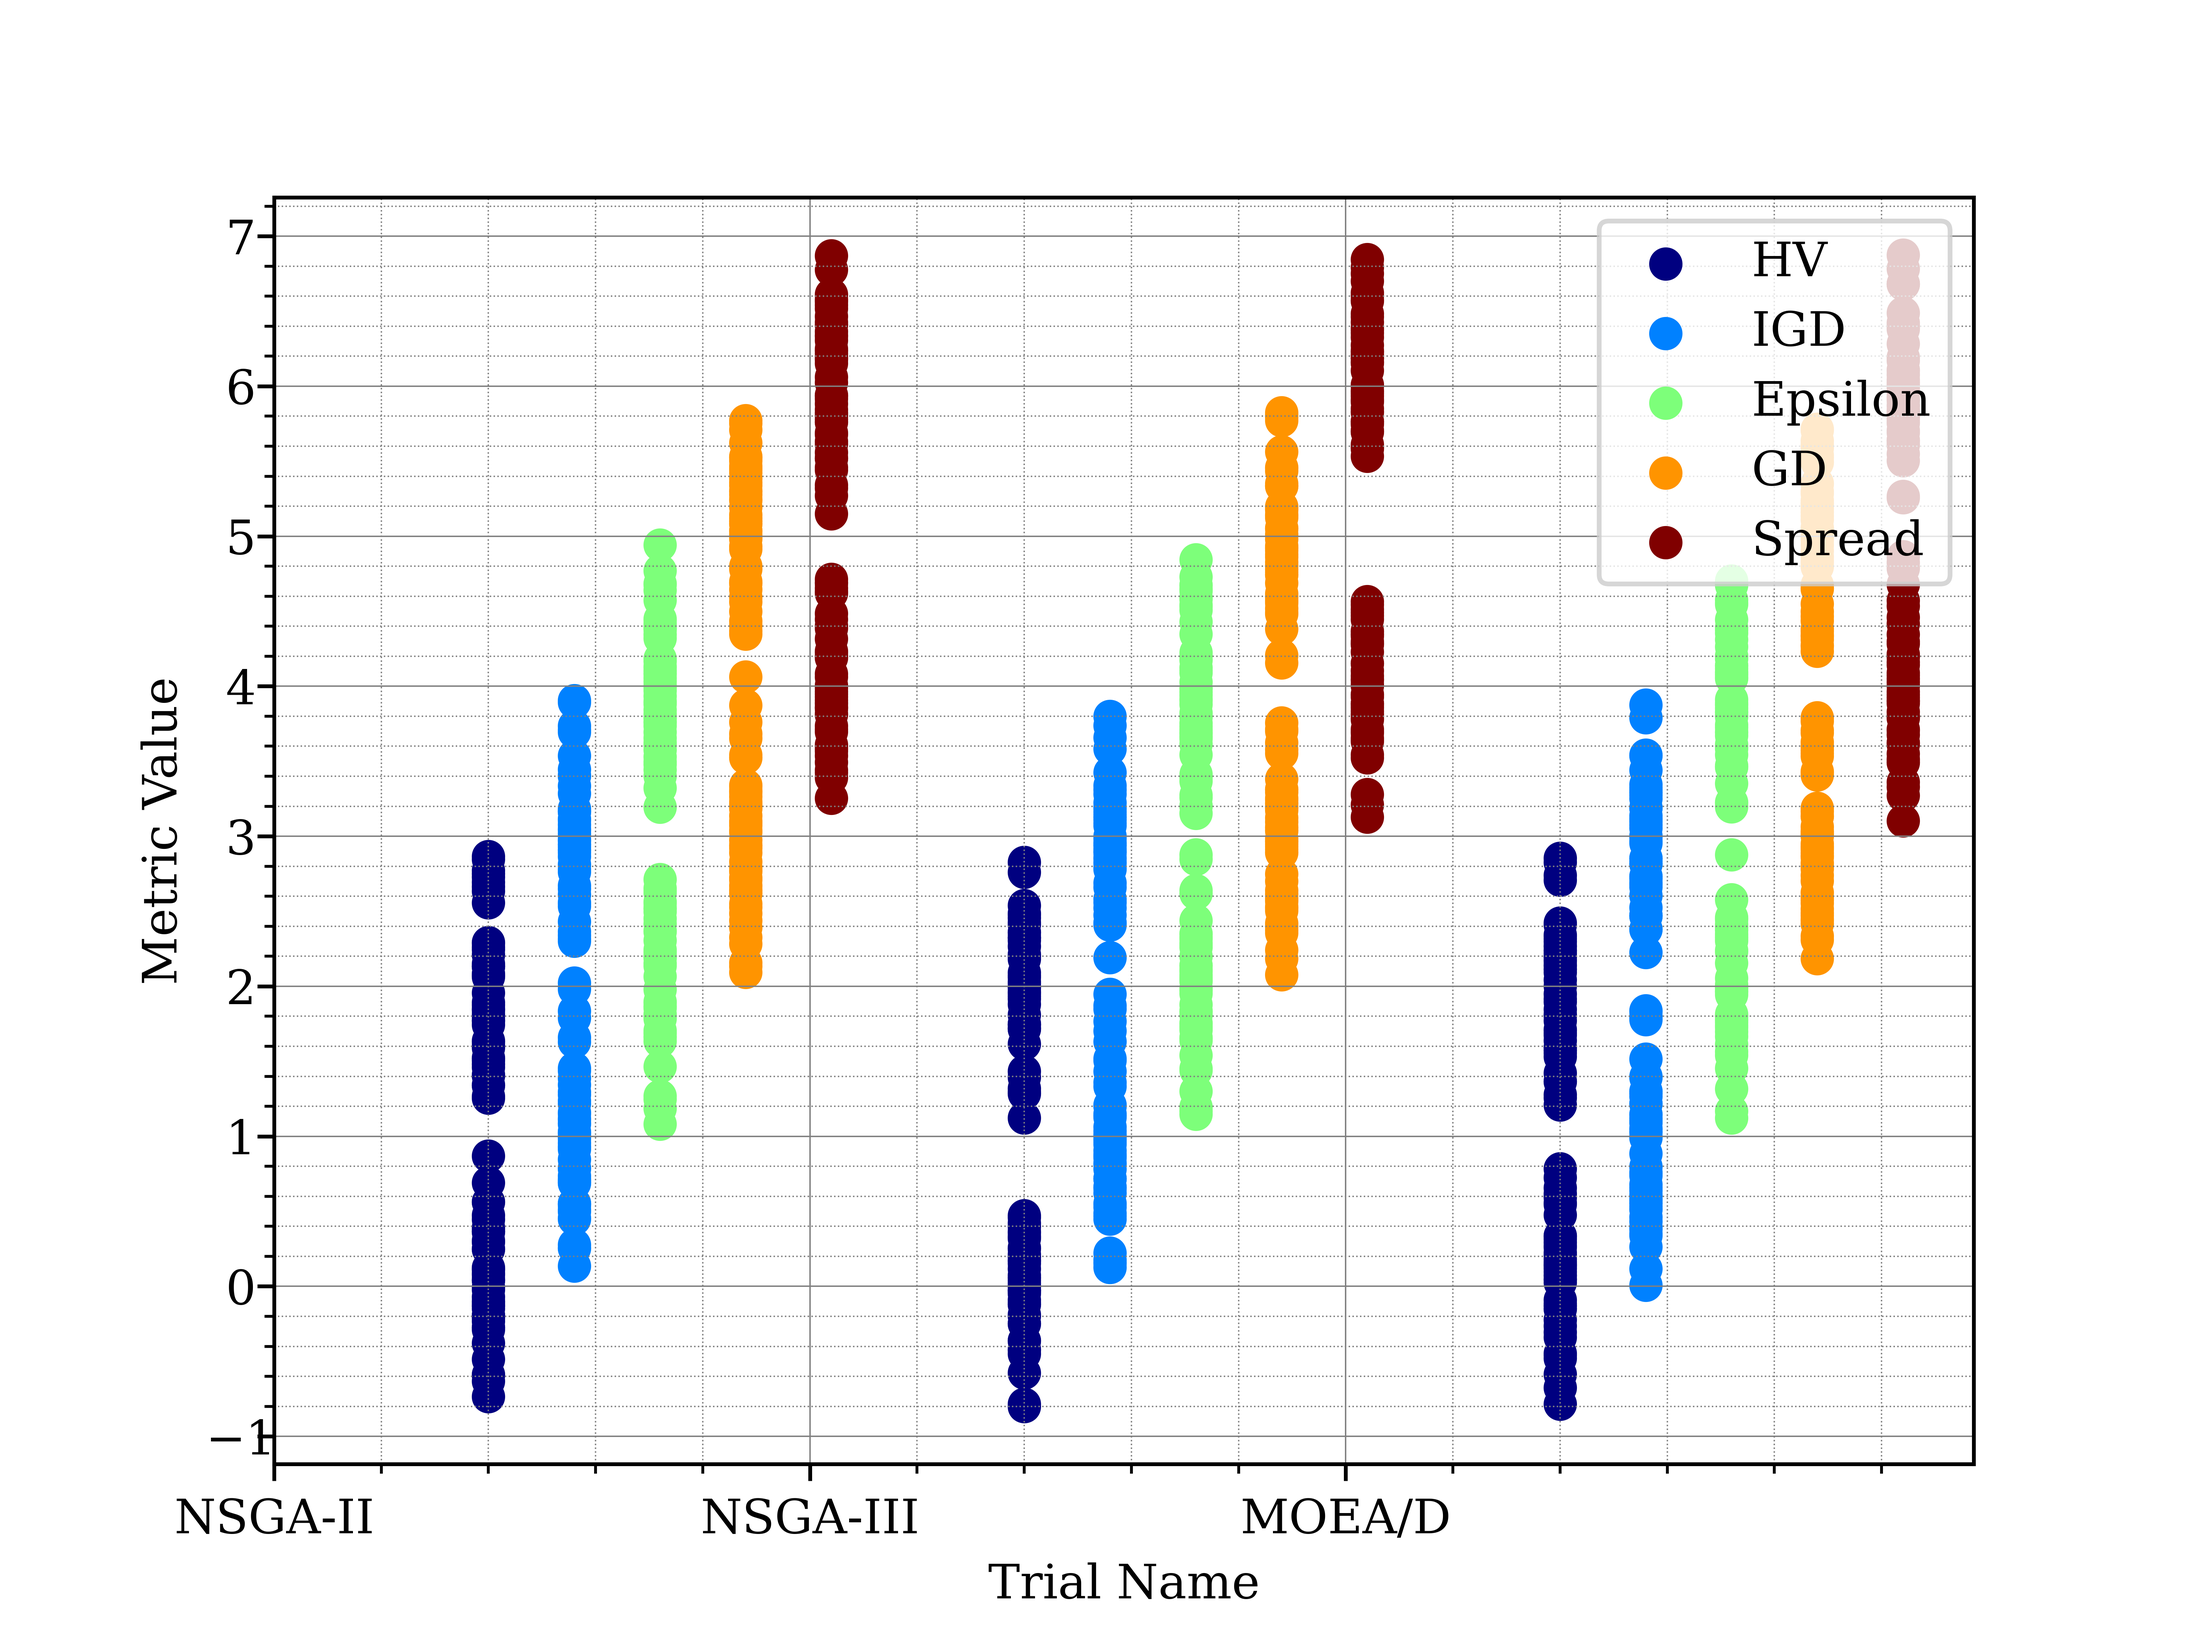
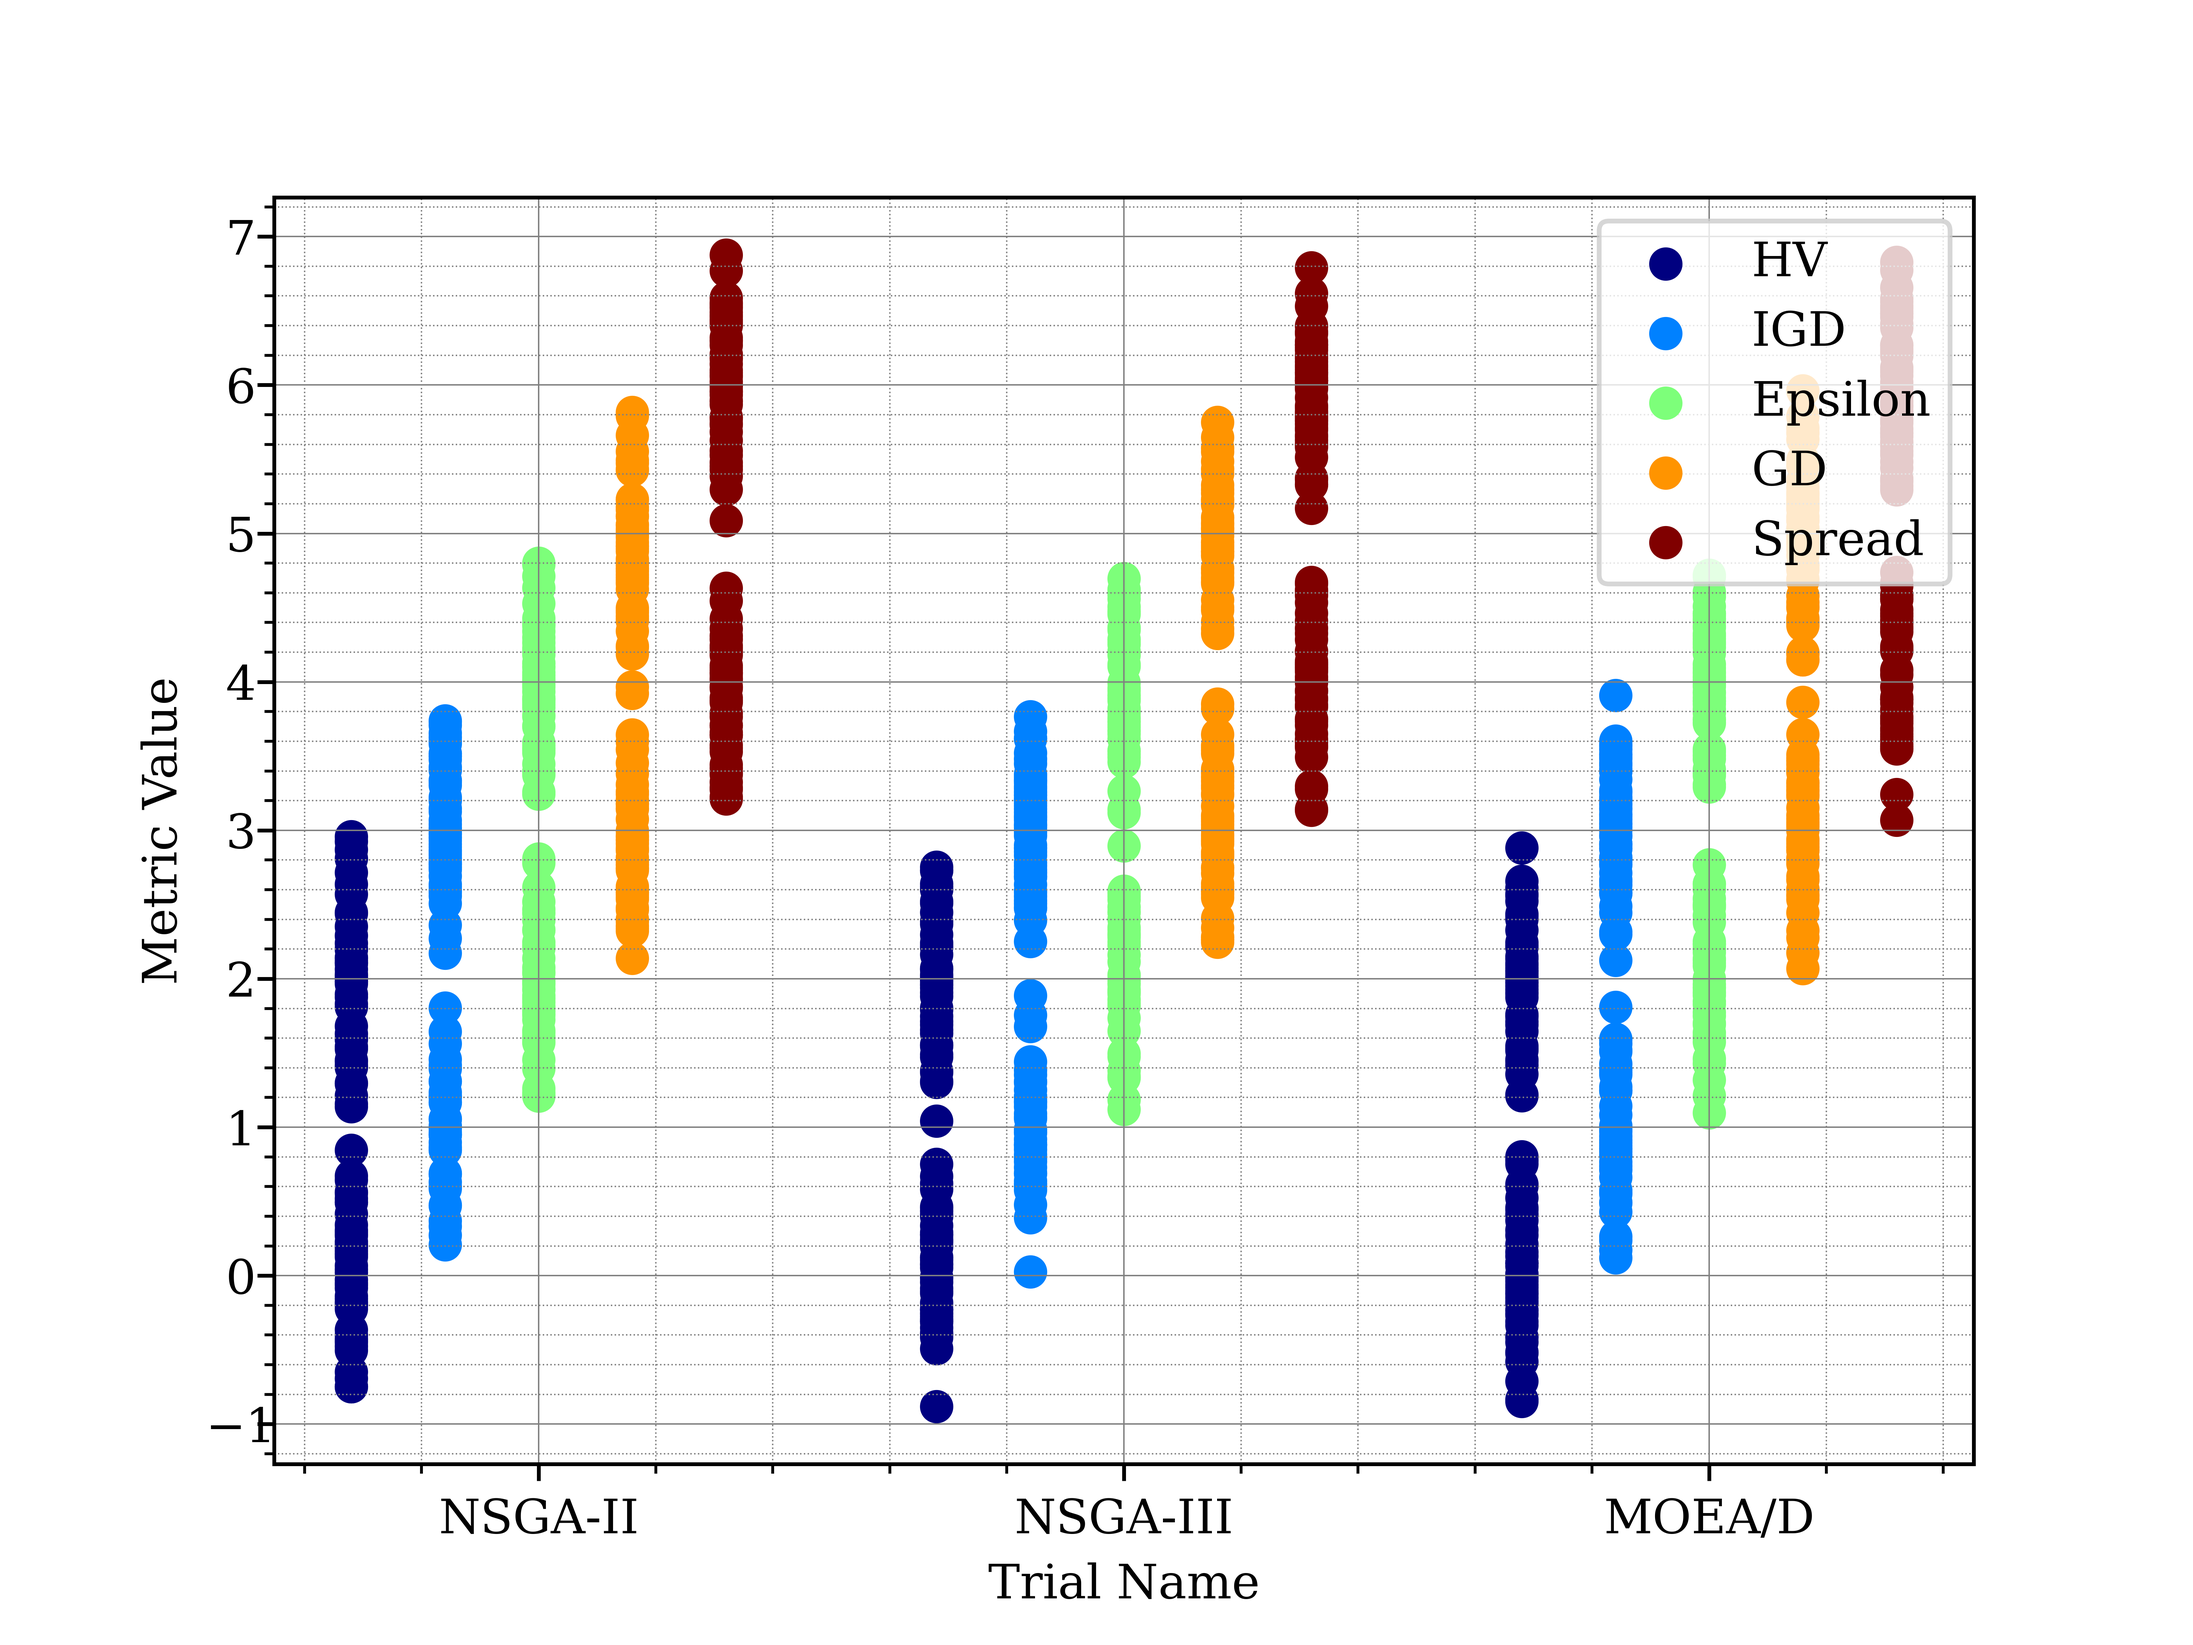
0.8.7.3

diff --git a/metric_visualizer/metric_visualizer.py b/metric_visualizer/metric_visualizer.py
@@ -209,14 +209,14 @@ class MetricVisualizer:
         num_trials = len(plot_metrics[list(plot_metrics.keys())[0]].keys())
 
         # get the width of the box plot
-        width = width / num_metrics if kwargs.get("no_overlap", False) else width
+        width = width / num_metrics if kwargs.get("no_overlap", True) else width
 
         # get the xtick labels
         xtick_labels = list(plot_metrics[list(plot_metrics.keys())[0]].keys())
         # get the xticks
         xticks = (
             np.arange(num_trials) + width * num_metrics
-            if kwargs.get("no_overlap", False)
+            if kwargs.get("no_overlap", True)
             else np.arange(num_trials) + width / 2
         )
 
@@ -233,7 +233,7 @@ class MetricVisualizer:
                 values,
                 labels=xtick_labels,
                 positions=xticks + i * width
-                if kwargs.get("no_overlap", False)
+                if kwargs.get("no_overlap", True)
                 else xticks,
                 widths=width * 0.9,
                 # patch_artist=kwargs.get("patch_artist", True),
@@ -269,7 +269,7 @@ class MetricVisualizer:
         plt.xticks(
             kwargs.get(
                 "xticks",
-                xticks + i / 2 * width if kwargs.get("no_overlap", False) else xticks,
+                xticks + i / 2 * width if kwargs.get("no_overlap", True) else xticks,
             ),
             labels=list(plot_metrics[metric_name].keys()),
             rotation=kwargs.pop("xrotation", 0),
@@ -354,11 +354,11 @@ class MetricVisualizer:
         num_trials = len(plot_metrics[list(plot_metrics.keys())[0]].keys())
 
         # get the width of the violin plot
-        width = width / num_metrics if kwargs.get("no_overlap", False) else width
+        width = width / num_metrics if kwargs.get("no_overlap", True) else width
         # get the xticks
         xticks = (
             np.arange(num_trials) + width / 2
-            if kwargs.get("no_overlap", False)
+            if kwargs.get("no_overlap", True)
             else np.arange(num_trials)
         )
         # get the xtick labels
@@ -373,7 +373,7 @@ class MetricVisualizer:
             violin = ax.violinplot(
                 values,
                 positions=xticks + i * width
-                if kwargs.get("no_overlap", False)
+                if kwargs.get("no_overlap", True)
                 else xticks,
                 widths=width * 0.9,
                 showmeans=kwargs.get("showmeans", False),
@@ -403,7 +403,7 @@ class MetricVisualizer:
         plt.xticks(
             kwargs.get(
                 "xticks",
-                xticks + i * width / 2 if kwargs.get("no_overlap", False) else xticks,
+                xticks + i * width / 2 if kwargs.get("no_overlap", True) else xticks,
             ),
             list(plot_metrics[metric_name].keys()),
             rotation=kwargs.pop("xrotation", 0),
@@ -523,7 +523,10 @@ class MetricVisualizer:
             plt.grid(which="minor", linestyle=":", linewidth="0.3", color="grey")
 
         plt.xticks(
-            kwargs.get("xticks", list(range(len(plot_metrics[metric_name].keys())))),
+            kwargs.get(
+                "xticks",
+                xticks + i * width / 2 if kwargs.get("no_overlap", True) else xticks,
+            ),
             list(plot_metrics[metric_name].keys()),
             rotation=kwargs.pop("xrotation", 0),
             horizontalalignment=kwargs.pop("horizontalalignment", "center"),
@@ -1175,55 +1178,62 @@ class MetricVisualizer:
             return self.metric_rank_test_result
 
     def _get_table_data(self, **kwargs):
-        if kwargs.get("transpose", False):
-            header = [
-                "Trial",
-                "Metric",
-                "Values",
-                "Average",
-                "Median",
-                "Std",
-                "IQR",
-                "Min",
-                "Max",
-            ]
-        else:
-            header = [
-                "Metric",
-                "Trial",
-                "Values",
-                "Average",
-                "Median",
-                "Std",
-                "IQR",
-                "Min",
-                "Max",
-            ]
-
         table_data = []
         if kwargs.get("transpose", False):
+            header = [
+                "Trial",
+                "Metric",
+                "Values",
+                "Average",
+                "Median",
+                "Std",
+                "IQR",
+                "Min",
+                "Max",
+            ]
             transposed_metrics = self.transpose()
-            trial_tag_list = list(transposed_metrics.keys())
-        else:
-            transposed_metrics = self.metrics
-            trial_tag_list = list(
-                transposed_metrics[list(transposed_metrics.keys())[0]]
-            )
-        for mn in transposed_metrics.keys():
-            metrics = transposed_metrics[mn]
-            for i, trial in enumerate(metrics.keys()):
-                _data = []
-                _data += [
-                    [mn, trial_tag_list[i], [round(x, 2) for x in metrics[trial][:10]]]
-                ]
-                _data[-1].append(round(metrics[trial].avg, 2))
-                _data[-1].append(round(metrics[trial].median, 2))
-                _data[-1].append(round(metrics[trial].std, 2))
-                _data[-1].append(round(metrics[trial].iqr, 2))
-                _data[-1].append(round(metrics[trial].min, 2))
-                _data[-1].append(round(metrics[trial].max, 2))
+            for i, trial in enumerate(transposed_metrics.keys()):
+                trials = transposed_metrics[trial]
+                for j, metric in enumerate(trials.keys()):
+                    _data = []
+                    _data += [
+                        [trial, metric, [round(x, 2) for x in trials[metric][:10]]]
+                    ]
+                    _data[-1].append(round(trials[metric].avg, 2))
+                    _data[-1].append(round(trials[metric].median, 2))
+                    _data[-1].append(round(trials[metric].std, 2))
+                    _data[-1].append(round(trials[metric].iqr, 2))
+                    _data[-1].append(round(trials[metric].min, 2))
+                    _data[-1].append(round(trials[metric].max, 2))
+                    table_data += _data
 
-                table_data += _data
+        else:
+            header = [
+                "Metric",
+                "Trial",
+                "Values",
+                "Average",
+                "Median",
+                "Std",
+                "IQR",
+                "Min",
+                "Max",
+            ]
+            transposed_metrics = self.metrics
+            for i, metric in enumerate(transposed_metrics.keys()):
+                metrics = transposed_metrics[metric]
+                for j, trial in enumerate(metrics.keys()):
+                    _data = []
+                    _data += [
+                        [metric, trial, [round(x, 2) for x in metrics[trial][:10]]]
+                    ]
+                    _data[-1].append(round(metrics[trial].avg, 2))
+                    _data[-1].append(round(metrics[trial].median, 2))
+                    _data[-1].append(round(metrics[trial].std, 2))
+                    _data[-1].append(round(metrics[trial].iqr, 2))
+                    _data[-1].append(round(metrics[trial].min, 2))
+                    _data[-1].append(round(metrics[trial].max, 2))
+                    table_data += _data
 
         return table_data, header
 

diff --git a/example/colalab_plot_examples/example_by_metrics_listening.py b/example/colalab_plot_examples/example_by_metrics_listening.py
@@ -33,7 +33,7 @@ for r in range(repeat):  # repeat the experiments to plot violin or box figure
 
 MV.remove_outliers()  # remove outliers
 MV.to_execl(save_path=os.getcwd() + "/example.xlsx")  # save to excel
-MV.summary()
+MV.summary(transpose=True, save_path=os.getcwd() + "/summary.txt")  # save summary
 MV.box_plot(no_overlap=True, save_path="box_plot.png")
 MV.violin_plot(no_overlap=True, save_path="violin_plot.png")
 MV.scatter_plot(save_path="scatter_plot.png")

diff --git a/metric_visualizer/__init__.py b/metric_visualizer/__init__.py
@@ -5,7 +5,7 @@
 # github: https://github.com/yangheng95
 # Copyright (C) 2021. All Rights Reserved.
 
-__version__ = "0.8.7.2"
+__version__ = "0.8.7.3"
 __name__ = "metric_visualizer"
 
 from .metric_visualizer import MetricVisualizer
